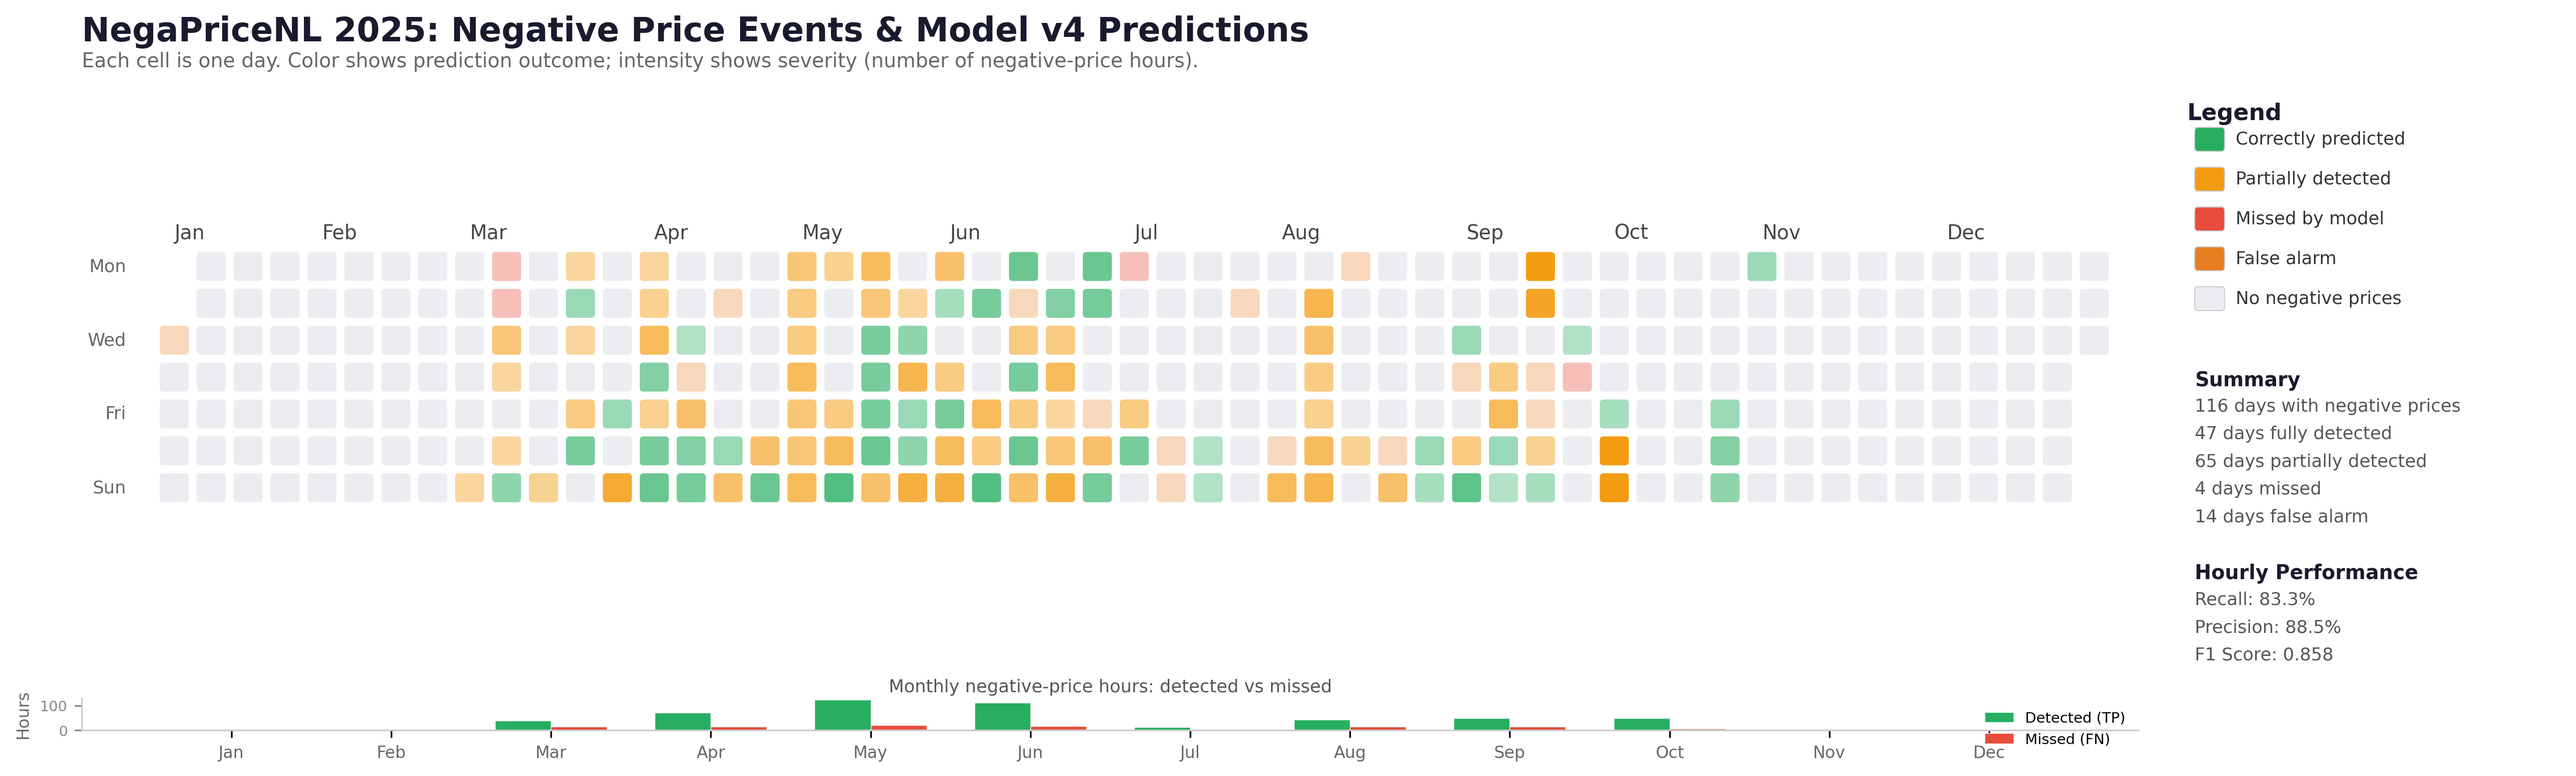
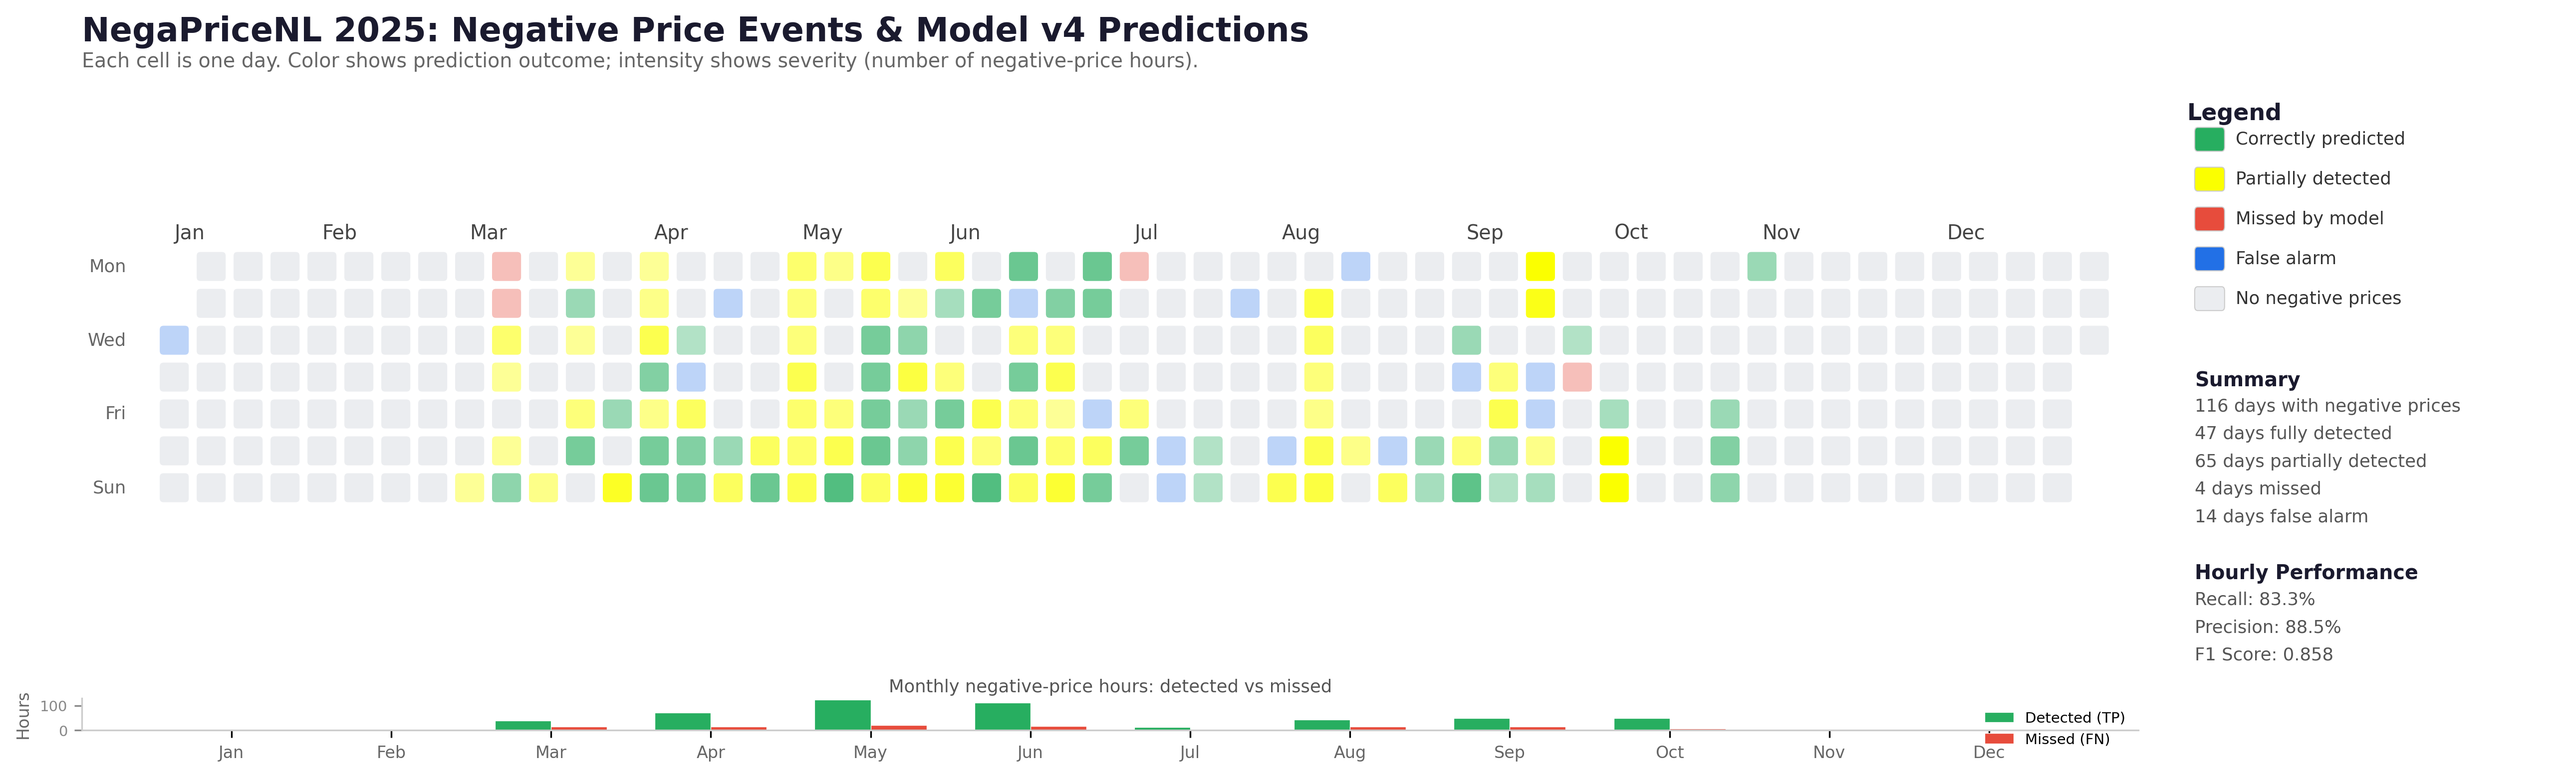
Heatmap changes

diff --git a/scripts/create_calendar_heatmap.py b/scripts/create_calendar_heatmap.py
@@ -52,9 +52,9 @@ CAT_FALSE_ALARM = 4
 CATEGORY_BASE_COLORS = {
     CAT_NO_EVENT: '#EBEDF0',
     CAT_ALL_DETECTED: '#27AE60',
-    CAT_PARTIAL: '#F39C12',
+    CAT_PARTIAL: "#FBFF00",
     CAT_MISSED: '#E74C3C',
-    CAT_FALSE_ALARM: '#E67E22',
+    CAT_FALSE_ALARM: "#2270E6",
 }
 
 CATEGORY_LABELS = {
